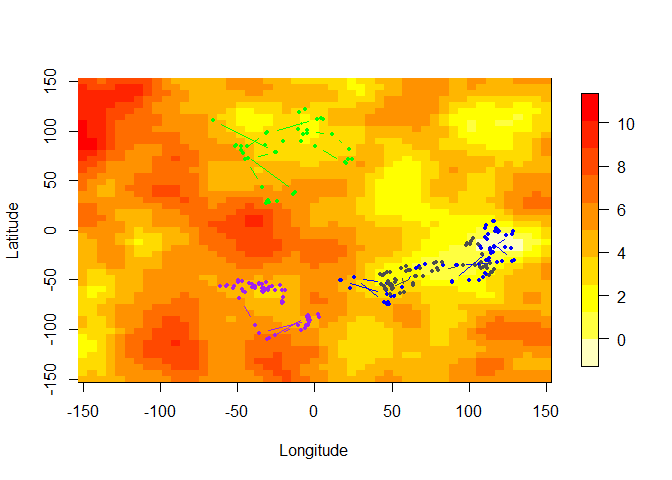
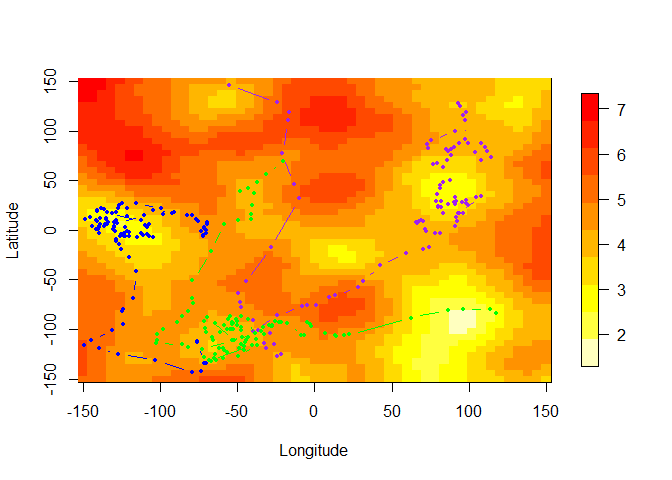
updated readme

diff --git a/README.md b/README.md
@@ -31,13 +31,13 @@ First we set the parameters of the assumed Matern covariance function and the (c
 # constant mean
 mean <- 5
 # scale (range)
-phi <- 15 
+phi <- 25 
 # nugget (measurement) variance
 nugget <- 0.1
 # smoothness (assumed known in estimation)
 kappa <- 2
 # marginal variance (partial sill)
-GPVar  <- 3
+GPVar  <- 1.5
 # define the covariance model
 model <- RMwhittle(nu=kappa, var=GPVar, scale=phi)
 # finally trend = 0 just means our mean trend is constant (mean from above)
@@ -50,24 +50,26 @@ Next we specify the parameters that determine the movement/sampler properties. P
 # is starting location random? (0 = yes and >0 multivariate normal with
 # mean 0 and diagonal covariance matrix with variance=start)
 start <- 0
-# alpha[1] defines starting value of beta_1 from eq (3.5)
-# alpha[2:3] are currently both equal to \alpha from eq (3.2). They could be changed to
+# alpha[1] defines starting value of beta_1 from eq (3.6)
+# alpha[2:3] are currently both equal to \alpha from eq (3.7). They could be changed to
 # adopt preferential movement varying in strength across latitude/longitude.
-alpha <- c(.5, 150, 150) 
+alpha <- c(-1.5, 100, 100)
 # the number of tracks in the simulation
-numTracks <- 4
+numTracks <- 3
 # the number of data points to simulate per track
-n <- 80
+n <- 360
 # the number of observations to throw out per track (ie/ total sample
 # size per track is n-burnIn)
-burnIn <- 20
+burnIn <- 60
+# the rate parameter of the exponential distribution used to generate the sampling times
+timing <-  10
 # measurement location noise (currently not included in models)
 noise <- 0
 # movement parameters
-# behaviour (beta) standard deviation parameter (\sigma_{\beta} in eq (3.5))
+# behaviour (beta) standard deviation parameter (\sigma_{\beta} in eq (3.6))
 behavSD <- .1 
 # movement standard deviation parameter (diag(\Sigma) in eq (3.3))
-moveSD <- 12 
+moveSD <- 3 
 # combine standard deviations for later use
 dataParam <- c(behavSD, moveSD)
 ```
@@ -111,30 +113,43 @@ Now we are ready to generate the data. We first simulate the latent field and th
 
 ``` r
 # simulate the random field
-set.seed(1)
+set.seed(6351)
 rawDat <- RFsimulate(model, x=as.matrix(gridFull),  exactness=TRUE)
 # simulate the observations and sampling locations
 Xsim <- genPrefDataHybridBehav(n=n, movementParam=dataParam, nrowcol=nrowcol, m=0, 
                                paramGP=c(mean, phi, nugget, kappa, GPVar), numTracks=numTracks, 
-                               alpha=alpha, rawDat=rawDat, start=start, burnIn = burnIn)
+                               alpha=alpha, rawDat=rawDat, start=start, burnIn = burnIn, timing=timing)
 # extract sampling data
 data <- Xsim$Dat
 # extract true surface data
 surface <- Xsim$surface
-colnames(data) <- c("Time", "Lon", "Lat", "Temp", "Beta", "Track")
+colnames(data) <- c("Time", "Lon", "Lat", "Temp", "gradientX", "gradientY", "Beta", "Track")
 # here is how the data (locations and respective latent field measurements)
 head(data)
 ```
 
-    ##        Time        Lon        Lat     Temp      Beta Track
-    ## 1 0.0000000  -4.109334  -85.63149 5.085735 0.5073743     1
-    ## 2 0.2139963 -30.402035 -109.75711 6.749778 0.5005834     1
-    ## 3 0.2189868 -29.278130 -108.76321 6.382570 0.5008400     1
-    ## 4 0.2661443 -25.649978 -105.95862 6.503200 0.4983315     1
-    ## 5 0.3997398 -10.621576  -95.71326 4.955609 0.5221208     1
-    ## 6 0.5041566  -4.527735  -87.21801 4.935147 0.5091465     1
+    ##         Time      Lon      Lat     Temp  gradientX   gradientY      Beta
+    ## 1 0.00000000 90.62477 83.41096 4.222824 0.01650040 -0.02259048 -1.217568
+    ## 2 0.03895239 90.22061 82.80155 4.167551 0.01499146 -0.02558380 -1.255394
+    ## 3 0.08395329 89.59377 82.23768 4.119081 0.01388511 -0.02918536 -1.267580
+    ## 4 0.11661354 88.57083 82.05452 3.890522 0.01444768 -0.03325392 -1.257057
+    ## 5 0.29282906 84.62312 80.91155 3.690016 0.01259540 -0.04931482 -1.254136
+    ## 6 0.32905096 85.08989 80.72604 3.703261 0.01180773 -0.04797840 -1.273623
+    ##   Track
+    ## 1     1
+    ## 2     1
+    ## 3     1
+    ## 4     1
+    ## 5     1
+    ## 6     1
 
-Here is how the data looks. Each colour is a different track and dots are sampling locations which are superimposed onto the unknown latent field.
+``` r
+# now we thin the data to 300 locations in total for analysis 
+selection <- seq(1, nrow(data), length.out = 300)
+dataThin <- data[selection, ]
+```
+
+Here is how the data looks. Each colour is a different track and dots are sampling locations which are superimposed onto the unknown latent field. Note, that this is the same data from Fig 2.
 
 ![](README_files/figure-markdown_github/plotdata-1.png)
 
@@ -148,6 +163,8 @@ dyn.load(dynlib("TMBfile"))
 Next is some house keeping to prepare the data for TMB (refer to the comments inside the script below for details):
 
 ``` r
+# replace data with thinned version
+data=dataThin
 # obtain sampling times
 tsim <- data[,1]
 # number of observations in total
@@ -157,7 +174,7 @@ numObs <- nrow(data)
 trackLength <- NULL
 trackId <- 0
 for(i in 1:numTracks){
-  trackLength <- c(trackLength, length(which(data[,6]==i)))
+  trackLength <- c(trackLength, length(which(data$Track==i)))
   trackId <- c(trackId, sum(trackLength))
 }
 # create a set of locations which allows for gradients to be calculated in cpp file
@@ -230,21 +247,20 @@ standardMLE <- likfit(geodata, coords = geodata$coords, data = geodata$data, kap
 
     ## likfit: estimated model parameters:
     ##      beta     tausq   sigmasq       phi 
-    ## " 4.4319" " 0.0739" " 2.7101" "15.8464" 
-    ## Practical Range with cor=0.05 for asymptotic range: 85.06966
+    ## " 4.3058" " 0.1093" " 0.7261" "18.5567" 
+    ## Practical Range with cor=0.05 for asymptotic range: 99.6194
     ## 
-    ## likfit: maximised log-likelihood = -122.8
+    ## likfit: maximised log-likelihood = -170.3
 
 Next we will fit the model in `TMB`. First we define the parameters for the model (including latent states). Our latent states are the field **S** and behavioural states **beta**. The call to `MakeADFun` creates the likelihood function, which is then optimized numerically using `nlminb` (but other general-purpose optimization functions, e.g. `optim`, can also be considered).
 
 ``` r
 parameters <- list(
   S = rep(0, n_s),
-  beta = rep(0.5, length(dataTMB$Y)),
+  beta = rep(0, length(dataTMB$Y)),
   mu = standardMLE$beta,
   log_papertau = 3,
   log_kappa = log(1/standardMLE$phi),
-  log_tau = log(standardMLE$tausq),
   alpha = rnorm(1,alpha[2], 0.25),
   log_d = log(dataParam[2]),
   log_sdbehav = log(dataParam[1])
@@ -254,6 +270,26 @@ parameters <- list(
 obj <- MakeADFun(dataTMB, parameters, random=c("S", "beta"), DLL="TMBfile", method = "nlminb", hessian=FALSE, silent=T)
 # conduct maximisation
 opt <- try( nlminb(obj$par,obj$fn,obj$gr, control=list(rel.tol=1e-7)) )
+# rerun up to 4 times in case of any gradient errors
+for(m in 1:4){
+  if(class(opt) != 'try-error' && opt$convergence == 0) {
+    print("Success!")
+  }
+  else{ 
+    paste0("Failed, try number ", m)
+    lengthPar <- length(obj$env$last.par.best)
+    tmp <- obj$env$last.par.best[(lengthPar-5):lengthPar] + 0.01
+    opt <- try(nlminb(tmp,obj$fn,obj$gr, control=list(rel.tol=1e-7)))
+  }
+}
+```
+
+    ## [1] "Success!"
+    ## [1] "Success!"
+    ## [1] "Success!"
+    ## [1] "Success!"
+
+``` r
 # Extract sigma^2 (partial sill)
 report_spde <- obj$report()
 ```
@@ -277,13 +313,12 @@ if( class(sdre) != 'try-error') {
 ```
 
     ##                Estimate  Std. Error
-    ## mu             4.939458  0.70357739
-    ## log_papertau   3.539569  0.16696319
-    ## log_kappa     -2.869189  0.14946801
-    ## log_tau       -1.285581  0.05806115
-    ## alpha        174.620945 23.13155555
-    ## log_d          2.574603  0.03588378
-    ## log_sdbehav   -1.870642  0.31034349
+    ## mu             4.406319  0.24327250
+    ## log_papertau   4.215612  0.21093490
+    ## log_kappa     -2.830299  0.15373855
+    ## alpha        142.870640 25.55025060
+    ## log_d          2.209733  0.03291732
+    ## log_sdbehav   -2.733629  1.25336438
 
 Prediction
 ----------
@@ -337,14 +372,14 @@ IgnScoreNonPref <- IGN(nonPredPref$predict, rawDatSmall, nonPredPref$krige.var)
 mean(IgnScorePost)
 ```
 
-    ## [1] 1.170347
+    ## [1] -0.5294663
 
 ``` r
 mean(IgnScoreNonPref)
 ```
 
-    ## [1] 1.299883
+    ## [1] -0.3737076
 
 Finally we can plot the IGN scores and compare predictive surfaces from the non-preferential and preferential models. We consider only prediction locations in regions near the sampling locations: ![](README_files/figure-markdown_github/showign-1.png)![](README_files/figure-markdown_github/showign-2.png)![](README_files/figure-markdown_github/showign-3.png)
 
-Note that the mean IGN for the following two plots are 0.41 (TMB) and 0.64 (kriging) respectively. ![](README_files/figure-markdown_github/plotign2-1.png)![](README_files/figure-markdown_github/plotign2-2.png)
+Note that the mean IGN for the following two plots are -0.96 (TMB) and -0.88 (kriging) respectively. Comparing this to Fig 5 (b), this simulation shows a relatively small improvement by the preferential model compared to most simulations with these parameters, mainly due to the large coverage of the field by the data locations. ![](README_files/figure-markdown_github/plotign2-1.png)![](README_files/figure-markdown_github/plotign2-2.png)
